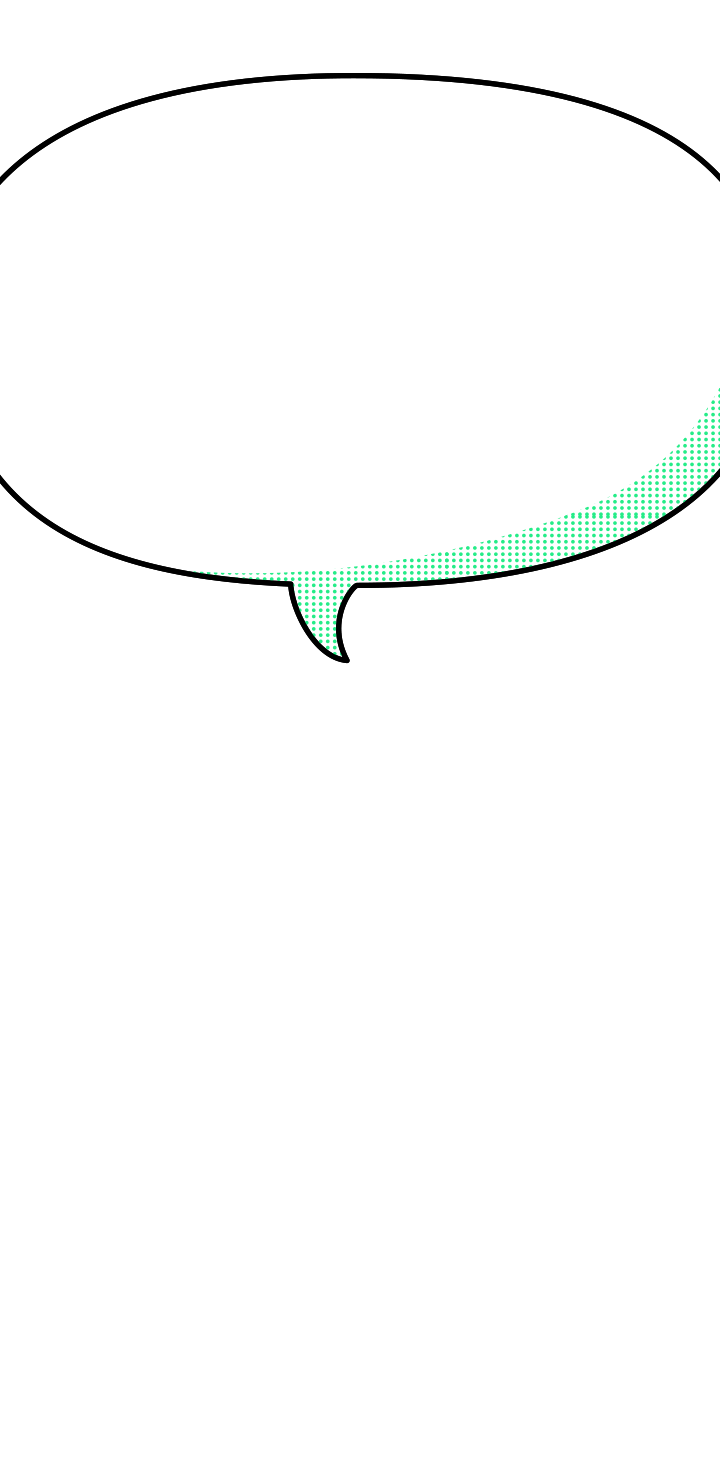
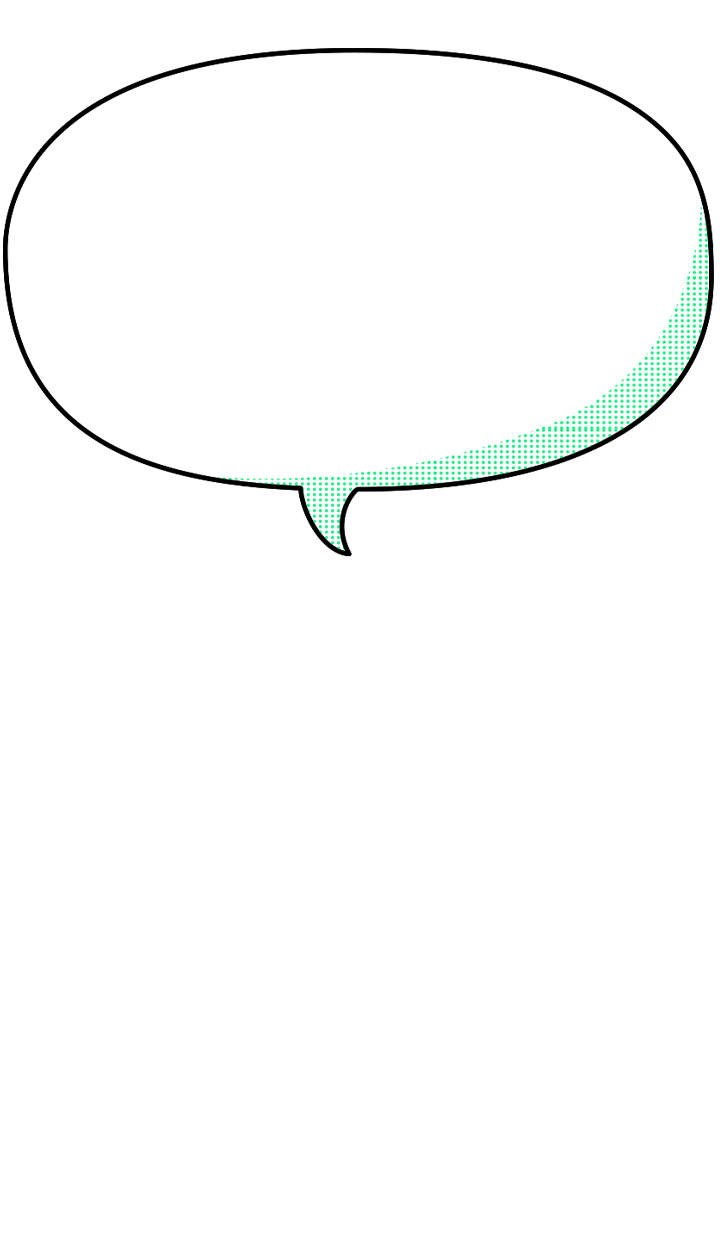
2021.12.24

Changed region(s): [[0.0, 0.031, 1.0, 0.4643], [0.0306, 0.2786, 0.0611, 0.3095], [0.0, 0.3095, 0.0306, 0.3405]]

diff --git a/assets/css/main.min.css b/assets/css/main.min.css
@@ -1,2 +1,2 @@
-.inner{max-width:1160px;margin:0 auto;padding:0 110px}.container{display:-webkit-box;display:-ms-flexbox;display:flex;-webkit-box-pack:justify;-ms-flex-pack:justify;justify-content:space-between;-webkit-box-align:center;-ms-flex-align:center;align-items:center;padding:0 125px}.mob-br{display:none}@media screen and (max-width: 1200px){.inner{padding:0 50px}}@media screen and (max-width: 900px){.container{padding:0 100px}}@media screen and (max-width: 720px){.inner{padding:0 40px}.container{-webkit-box-orient:vertical;-webkit-box-direction:normal;-ms-flex-direction:column;flex-direction:column;padding:0}}@media screen and (max-width: 570px){.inner{padding:0 25px}.mob-br{display:block}}@-webkit-keyframes loading{0%{width:0}70%{width:100%;opacity:1}90%{opacity:0;width:100%}100%{opacity:0;width:0}}@keyframes loading{0%{width:0}70%{width:100%;opacity:1}90%{opacity:0;width:100%}100%{opacity:0;width:0}}@-webkit-keyframes loading-motion{0%{height:57px}33%{height:58px}66%{height:60px}100%{height:58px}}@keyframes loading-motion{0%{height:57px}33%{height:58px}66%{height:60px}100%{height:58px}}@-webkit-keyframes loading-move{0%{left:0}70%{left:78%}100%{left:78%}}@keyframes loading-move{0%{left:0}70%{left:78%}100%{left:78%}}@-webkit-keyframes balloon{from{-webkit-transform:translateY(5px);transform:translateY(5px)}to{-webkit-transform:translateY(-5px);transform:translateY(-5px)}}@keyframes balloon{from{-webkit-transform:translateY(5px);transform:translateY(5px)}to{-webkit-transform:translateY(-5px);transform:translateY(-5px)}}@-webkit-keyframes scale-in-center{0%{-webkit-transform:scale(0);transform:scale(0);opacity:1}100%{-webkit-transform:scale(1);transform:scale(1);opacity:1}}@keyframes scale-in-center{0%{-webkit-transform:scale(0);transform:scale(0);opacity:1}100%{-webkit-transform:scale(1);transform:scale(1);opacity:1}}@-webkit-keyframes skill{from{width:0}to{width:graph}}@keyframes skill{from{width:0}to{width:graph}}@-webkit-keyframes quick-1{0%{right:-150px}100%{right:60px}}@keyframes quick-1{0%{right:-150px}100%{right:60px}}@-webkit-keyframes quick-mob-1{0%{bottom:-150px}100%{bottom:50px}}@keyframes quick-mob-1{0%{bottom:-150px}100%{bottom:50px}}@-webkit-keyframes quick-mob-2{0%{bottom:50px}100%{bottom:-150px}}@keyframes quick-mob-2{0%{bottom:50px}100%{bottom:-150px}}@-webkit-keyframes tracking-in-contract{0%{letter-spacing:normal}50%{letter-spacing:0.1em}100%{letter-spacing:normal}}@keyframes tracking-in-contract{0%{letter-spacing:normal}50%{letter-spacing:0.1em}100%{letter-spacing:normal}}@-webkit-keyframes scroll-down{from{bottom:35px}to{bottom:25px}}@keyframes scroll-down{from{bottom:35px}to{bottom:25px}}.loading-box{position:fixed;top:0;right:0;bottom:0;left:0;z-index:5000;background-color:#3f25b2}.loading-box .loading{position:relative;width:250px;height:30px;top:calc(50% - 10px);left:calc(50% - 125px);background-color:rgba(37,236,136,0.2)}.loading-box .loading::before{content:"";position:absolute;background-color:#25ec88;top:0;left:0;height:30px;width:0;z-index:0;opacity:1;-webkit-transform-origin:100% 0;transform-origin:100% 0;-webkit-animation:loading 5s ease-in-out infinite;animation:loading 5s ease-in-out infinite}.loading-box .loading::after{content:"LOADING ...";color:#25ec88;font-weight:200;font-size:24px;position:absolute;width:100%;height:30px;line-height:30px;top:0;left:0;text-align:center}.loading-box .loading .img-area{position:absolute;bottom:110%;left:0;-webkit-animation:loading-move 5s ease-in-out infinite;animation:loading-move 5s ease-in-out infinite}.loading-box .loading .img-area img{width:60px;height:57px;-webkit-animation:loading-motion 1s ease-in-out infinite;animation:loading-motion 1s ease-in-out infinite}.hd{background-color:#1b1b1b;position:fixed;top:0;right:0;left:0;z-index:1000}.hd .hamburger{display:none}.hd .logo{line-height:80px}.hd .logo img{width:100%;display:block}.hd .gnb{display:-webkit-box;display:-ms-flexbox;display:flex}.hd .gnb a{display:inline-block;color:#fff;font-size:18px;font-weight:400}.hd .gnb .dep1{line-height:80px;margin-left:57px}.hd .gnb .dep1:hover>a{text-decoration:underline}.hd .gnb .dep1:hover .dep2{height:150px;padding:8px 0}.hd .gnb .dep1-arrow{position:relative}.hd .gnb .dep1-arrow>a::after{content:'▼';color:#fff;font-size:12px;margin-left:9px}.hd .gnb .dep1 .dep2{height:0px;overflow:hidden;position:absolute;background-color:#3b21b0;top:100%;left:50%;-webkit-transform:translateX(-50%);transform:translateX(-50%);width:208px;text-align:center;line-height:45px;-webkit-transition:all 0.3s;transition:all 0.3s}.hd .gnb .dep1 .dep2 a{display:block;font-size:13px;-webkit-transition:all 0.3s ease;transition:all 0.3s ease}.hd .gnb .dep1 .dep2 a:hover{background-color:#fff;color:#3b21b0}@media screen and (max-width: 900px){.hd .logo{margin:0 auto}.hd .logo a img{width:100%;padding:21px 0;line-height:80px}.hd .gnb{background-color:rgba(59,33,176,0.9);position:fixed;top:-100%;right:0;left:0;display:block;text-align:center;padding-top:100px;-webkit-transition:all 0.9s;transition:all 0.9s;opacity:0}.hd .gnb a{font-size:36px;font-weight:500}.hd .gnb .dep1{line-height:100px;margin-left:0}.hd .gnb .dep1:hover .dep2{height:0;padding:0}.hd .gnb .dep1 .dep2{position:relative;background-color:transparent;width:auto;line-height:100px}.hd .gnb .dep1 .dep2 a{font-size:30px}.hd .gnb .dep1 .dep2 a:hover{background:transparent;color:#fff;text-decoration:underline}.hd .gnb .dep1 .dep2.active{height:316px}.hd .hamburger{display:block;position:absolute;top:50%;right:3%;z-index:3;-webkit-transform:translateY(-50%);transform:translateY(-50%);width:45px;height:45px;cursor:pointer}.hd .hamburger li{position:absolute;left:5%;-webkit-transform:translateY(-50%);transform:translateY(-50%);width:90%;height:7px;background:#fff;border-radius:20px;-webkit-transition:.9s;transition:.9s;opacity:1}.hd .hamburger .line1{top:20%}.hd .hamburger .line2,.hd .hamburger .line3{top:50%}.hd .hamburger .line4{top:80%}.hd .hamburger.active .line1{top:-20%;opacity:0}.hd .hamburger.active .line2{-webkit-transform:translateY(-50%) rotate(45deg);transform:translateY(-50%) rotate(45deg)}.hd .hamburger.active .line3{-webkit-transform:translateY(-50%) rotate(-45deg);transform:translateY(-50%) rotate(-45deg)}.hd .hamburger.active .line4{top:120%;opacity:0}.hd .hamburger.active ~ .gnb{top:0;bottom:0;opacity:1}}.kv{margin-top:80px}.kv .kv-bg{position:relative;padding-top:45.5%;background-image:url(../images/kv-main.gif);background-repeat:no-repeat;background-position:center top;background-size:contain}.kv .kv-bg img{display:block;width:100%}.kv .kv-bg .kv-obj{position:absolute;left:45%;top:35px;width:43%;height:100%;background-image:url(../images/kv-obj.png);background-repeat:no-repeat;background-size:contain;padding:6% 8%;-webkit-animation:balloon 1s ease-out infinite alternate;animation:balloon 1s ease-out infinite alternate}.kv .kv-bg .kv-obj .kv-txt{-webkit-animation:scale-in-center 1s cubic-bezier(0.25, 0.46, 0.45, 0.94) both;animation:scale-in-center 1s cubic-bezier(0.25, 0.46, 0.45, 0.94) both}.about{padding:118px 0}.about .about-slider [class^='list-']{display:-webkit-box;display:-ms-flexbox;display:flex;-webkit-box-pack:justify;-ms-flex-pack:justify;justify-content:space-between;-webkit-box-align:center;-ms-flex-align:center;align-items:center}.about .about-slider .slick-dots{position:absolute;bottom:-40px;left:50%;-webkit-transform:translate(-50%);transform:translate(-50%);display:-webkit-box;display:-ms-flexbox;display:flex;margin:0}.about .about-slider .slick-dots button{background-color:black;width:10px;height:10px;border-radius:10px;text-indent:-9999px;margin:0 4px;padding:0}.about .about-slider .slick-dots li.slick-active button{width:38px;margin:0 9px;-webkit-transition:all 0.3s;transition:all 0.3s}.about [class^='list-'] .txt-area .tit{font-family:'ChunkFive-Regular';font-size:52px}.about [class^='list-'] .img-area{-webkit-box-flex:0;-ms-flex:0 0 auto;flex:0 0 auto}.about [class^='list-'] .img-area img{display:block;width:100%;border:5px solid black}.about .list-1 .txt-area{text-align:right;margin-left:30px}.about .list-1 .txt-area .tit{color:#25ec88}.about .list-1 .txt-area .desc{font-size:18px;font-weight:300;line-height:32px;margin-top:25px}.about .list-2 .txt-area .tit{color:#3b21b0}.about .list-2 .txt-area .desc{display:-webkit-box;display:-ms-flexbox;display:flex;-ms-flex-wrap:wrap;flex-wrap:wrap;margin-top:25px}.about .list-2 .txt-area .desc li{-webkit-box-flex:1;-ms-flex:1 1 auto;flex:1 1 auto}.about .list-2 .txt-area .date{font-weight:400;font-size:18px}.about .list-2 .txt-area .work{font-family:'KOTRA_GOTHIC';font-size:18px;margin-top:10px}.about .list-2 .img-area{margin-right:80px}.about .list-3 .txt-area .tit{color:#e412e2}.about .list-3 .txt-area .desc{display:-webkit-box;display:-ms-flexbox;display:flex;-ms-flex-wrap:wrap;flex-wrap:wrap;margin-top:25px}.about .list-3 .txt-area .desc li{width:calc(50% - 20px);margin-right:20px;margin-bottom:28px}.about .list-3 .txt-area .desc .skill{font-weight:400;font-size:18px;margin-bottom:10px}.about .list-3 .txt-area .desc .graph{position:relative;width:100%;height:8px;border-radius:10px;background-color:#f0f0f0}.about .list-3 .txt-area .desc .graph::after{content:"";height:8px;position:absolute;top:0;left:0;border-radius:10px;background-color:#d4d4d4}.about .list-3 .txt-area .desc .photo .graph::after{width:95%}.about .list-3 .txt-area .desc .prem .graph::after{width:50%}.about .list-3 .txt-area .desc .clip .graph::after{width:95%}.about .list-3 .txt-area .desc .blen .graph::after{width:40%}.about .list-3 .txt-area .desc .html .graph::after{width:80%}.about .list-3 .txt-area .desc .css .graph::after{width:80%}.about .list-3 .txt-area .desc .jqeury .graph::after{width:50%}.about .list-3.slick-active .txt-area .desc .graph::after{-webkit-animation:skill 1s;animation:skill 1s}.sec-tit{text-align:center;padding-top:68px}.what-i-do{background-color:#3b21b0;padding:0 105px}.what-i-do .sec-body{display:-webkit-box;display:-ms-flexbox;display:flex;-ms-flex-wrap:wrap;flex-wrap:wrap;-webkit-box-pack:justify;-ms-flex-pack:justify;justify-content:space-between;-webkit-box-align:end;-ms-flex-align:end;align-items:flex-end;padding-top:100px;padding-bottom:150px}.what-i-do .sec-body .list-item{text-align:center;width:25%}.what-i-do .sec-body .list-item .icon{margin-bottom:10px}.what-i-do .sec-body .list-item .bar{position:relative;background-color:#25ec88;width:74px;height:14px;border-radius:14px;border:3px solid black;margin:auto;-webkit-transform:translateX(-7px);transform:translateX(-7px)}.what-i-do .sec-body .list-item .bar::after{position:absolute;top:0;bottom:0;right:-15px;content:"";background-color:#25ec88;-webkit-box-sizing:border-box;box-sizing:border-box;width:14px;height:14px;border-radius:14px;border:3px solid black;margin:auto}.what-i-do .sec-body .list-item .txt{font-size:24px;font-weight:500;color:#25ec88;text-shadow:-3px 0 #000, 0 3px #000, 3px 0 #000, 0 -3px #000;margin-top:20px}.portfolio{background-color:#25ec88}.portfolio .sec-body{padding:80px 0}.portfolio .sec-body .list-item{background-color:#1b1b1b;margin-bottom:50px}.portfolio .sec-body .list-item a{display:-webkit-box;display:-ms-flexbox;display:flex;-webkit-box-pack:justify;-ms-flex-pack:justify;justify-content:space-between;-webkit-box-align:end;-ms-flex-align:end;align-items:flex-end;padding:22px}.portfolio .sec-body .list-item a .txt-area{color:#fff;margin-left:10px;margin-bottom:10px}.portfolio .sec-body .list-item a .txt-area .tit{display:inline-block;position:relative;font-family:'ChunkFive-Regular';font-size:36px;margin-bottom:15px}.portfolio .sec-body .list-item a .txt-area .tit::after{content:"";display:inline-block;background-image:url(../images/arrow.png);background-repeat:no-repeat;background-size:cover;width:40px;height:100%;padding-top:29px;margin-bottom:-3px;margin-left:10px}.portfolio .sec-body .list-item a .txt-area .desc{font-size:18px;font-weight:400}.portfolio .sec-body .list-item a .img-area{-webkit-box-flex:0;-ms-flex:0 0 auto;flex:0 0 auto;width:451px;height:304px;background-repeat:no-repeat}.portfolio .sec-body .list-item a .img-area.img-web{background-image:url(../images/portfolio-web.png)}.portfolio .sec-body .list-item a .img-area.img-character{background-image:url(../images/portfolio-character.png)}.portfolio .sec-body .list-item a .img-area.img-graphic{background-image:url(../images/portfolio-graphic.png)}.portfolio .sec-body .list-item:hover .txt-area .tit{-webkit-animation:tracking-in-contract 1s cubic-bezier(0.215, 0.61, 0.355, 1) both;animation:tracking-in-contract 1s cubic-bezier(0.215, 0.61, 0.355, 1) both}.portfolio .sec-body .list-item:hover .img-area.img-web{background-image:url(../images/portfolio-web-hover.gif)}.portfolio .sec-body .list-item:hover .img-area.img-character{background-image:url(../images/portfolio-character-hover.gif)}.portfolio .sec-body .list-item:hover .img-area.img-graphic{background-image:url(../images/portfolio-graphic-hover.gif)}.contact{position:relative;background-color:#3f25b2;background-image:url(../images/bg-contact.png);background-repeat:no-repeat;background-position:right;color:#fff;text-align:center}.contact .sec-body{padding-top:140px;padding-bottom:80px}.contact .sec-body .desc{position:relative;font-size:18px;font-weight:300}.contact .sec-body .desc::before{position:absolute;content:"";background-image:url(../images/ico-desc-top.png);background-repeat:no-repeat;width:44px;height:34px;top:-60px;left:50%;-webkit-transform:translateX(-50%);transform:translateX(-50%)}.contact .sec-body .desc::after{position:absolute;content:"";background-image:url(../images/ico-desc-bottom.png);background-repeat:no-repeat;width:44px;height:34px;bottom:-60px;left:50%;-webkit-transform:translateX(-50%);transform:translateX(-50%)}.contact .sec-body .name{font-size:18px;font-weight:400;margin-top:120px}.contact .sec-body .contact-info{display:-webkit-box;display:-ms-flexbox;display:flex;-webkit-box-pack:center;-ms-flex-pack:center;justify-content:center;margin-top:50px}.contact .sec-body .contact-info .call,.contact .sec-body .contact-info .email{font-size:18px;font-weight:300;margin:0 24px}.contact .sec-body .btn{margin-top:50px}.contact .sec-body .btn button{background-color:#25ec88;color:#3b21b0;font-size:18px;font-weight:500;width:180px;height:51px;margin:0 24px}@media screen and (max-width: 1200px){.what-i-do{padding:0}}@media screen and (max-width: 900px){.about .about-slider .list-1{-webkit-box-orient:vertical;-webkit-box-direction:reverse;-ms-flex-direction:column-reverse;flex-direction:column-reverse}.about .about-slider .list-1 .txt-area{text-align:center;margin-top:30px;margin-left:0}.about .about-slider .list-2{-webkit-box-orient:vertical;-webkit-box-direction:normal;-ms-flex-direction:column;flex-direction:column}.about .about-slider .list-2 .txt-area{text-align:center;margin-top:30px}.about .about-slider .list-2 .txt-area .desc{text-align:left;margin:30px 20px 0}.about .about-slider .list-2 .txt-area .desc li{-webkit-box-flex:1;-ms-flex:1 1 auto;flex:1 1 auto}.about .about-slider .list-2 .img-area{margin-right:0}.about .about-slider .list-3{-webkit-box-orient:vertical;-webkit-box-direction:reverse;-ms-flex-direction:column-reverse;flex-direction:column-reverse}.about .about-slider .list-3 .txt-area{text-align:center;margin-top:30px}.about .about-slider .list-3 .txt-area .desc{margin-right:30px;margin-left:50px}.about .about-slider .list-3 .txt-area .desc li{width:calc(50% - 20px);margin-bottom:20px;text-align:left}.what-i-do .sec-body .list-item{width:50%}.what-i-do .sec-body .list-item:first-child,.what-i-do .sec-body .list-item:nth-child(2){margin-bottom:100px}.portfolio .sec-body .list-item a{-ms-flex-wrap:wrap;flex-wrap:wrap;-webkit-box-orient:vertical;-webkit-box-direction:reverse;-ms-flex-direction:column-reverse;flex-direction:column-reverse;-webkit-box-align:start;-ms-flex-align:start;align-items:flex-start}.portfolio .sec-body .list-item a .txt-area{-ms-flex-preferred-size:100%;flex-basis:100%;margin-top:20px;margin-left:0}.portfolio .sec-body .list-item a .img-area{-webkit-box-flex:1;-ms-flex:1 1 100%;flex:1 1 100%;width:100%;padding-top:67.4%;background-size:cover}}@media screen and (max-width: 720px){.kv .kv-bg{background-image:url(../images/kv-mob.gif);background-size:cover;padding-top:202.7%}.kv .kv-bg .kv-obj{top:0;left:0;width:100%;background-image:url(../images/kv-mob-obj.png);padding:27% 13%}.portfolio .sec-body .list-item:active .txt-area .tit{-webkit-animation:tracking-in-contract 1s cubic-bezier(0.215, 0.61, 0.355, 1) both;animation:tracking-in-contract 1s cubic-bezier(0.215, 0.61, 0.355, 1) both}.portfolio .sec-body .list-item:active .img-area.img-web{background-image:url(../images/portfolio-web-hover.gif)}.portfolio .sec-body .list-item:active .img-area.img-character{background-image:url(../images/portfolio-character-hover.gif)}.portfolio .sec-body .list-item:active .img-area.img-graphic{background-image:url(../images/portfolio-graphic-hover.gif)}.contact .sec-body .contact-info .call,.contact .sec-body .contact-info .email{margin:0 12px}.contact .sec-body .btn button{margin:0 12px}}@media screen and (max-width: 570px){.about .about-slider .list-3 .txt-area .desc{margin-right:0;margin-left:20px}.about .about-slider .list-3 .txt-area .desc li{width:calc(50% - 20px)}.about .about-slider .list-2 .txt-area .desc{text-align:center;margin-top:0px}.about .about-slider .list-2 .txt-area .desc li{margin-top:20px}.what-i-do .sec-body{padding-bottom:50px}.what-i-do .sec-body .list-item{width:100%;margin-bottom:100px}.contact .sec-body{padding-top:120px}.contact .sec-body .name{margin-top:100px}.contact .sec-body .contact-info{-webkit-box-orient:vertical;-webkit-box-direction:normal;-ms-flex-direction:column;flex-direction:column;margin-top:25px}.contact .sec-body .contact-info .call,.contact .sec-body .contact-info .email{margin:12px 0}.contact .sec-body .btn{display:inline-block;margin:auto}.contact .sec-body .btn button{display:block;margin:24px 0}}.ft{background-color:#1b1b1b;font-size:14px;color:#fff;line-height:80px}@media screen and (max-width: 720px){.ft{line-height:40px;padding:12px 0}}.quick [class^='quick-']{background-repeat:no-repeat;background-position:center;background-size:cover;position:fixed;width:55px;height:52px}.quick [class^='quick-'] .img-box{display:none;position:relative}.quick [class^='quick-'] .img-box img{position:absolute;top:-35px;left:50%;-webkit-transform:translateX(-50%);transform:translateX(-50%)}.quick [class^='quick-']:hover .img-box{display:block}.quick .quick-green{background-image:url(../images/quick-green.png);bottom:300px;-webkit-animation:quick-1 0.8s cubic-bezier(0, -0.04, 0.41, 0.95) both;animation:quick-1 0.8s cubic-bezier(0, -0.04, 0.41, 0.95) both}.quick .quick-green .img-box img{width:59px}.quick .quick-green:hover{background-image:url(../images/quick-green-hover.png)}.quick .quick-yellow{background-image:url(../images/quick-yellow.png);bottom:200px;-webkit-animation:quick-1 0.8s cubic-bezier(0, -0.04, 0.41, 0.95) 0.2s both;animation:quick-1 0.8s cubic-bezier(0, -0.04, 0.41, 0.95) 0.2s both}.quick .quick-yellow .img-box img{width:121px}.quick .quick-yellow:hover{background-image:url(../images/quick-yellow-hover.png)}.quick .quick-pink{background-image:url(../images/quick-pink.png);bottom:100px;-webkit-animation:quick-1 0.8s cubic-bezier(0, -0.04, 0.41, 0.95) 0.4s both;animation:quick-1 0.8s cubic-bezier(0, -0.04, 0.41, 0.95) 0.4s both}.quick .quick-pink .img-box img{width:100px}.quick .quick-pink:hover{background-image:url(../images/quick-pink-hover.png)}@media screen and (max-width: 720px){.quick [class^='quick-']{bottom:50px;left:50%;-webkit-transform:translateX(-50%);transform:translateX(-50%)}.quick .quick-green{-webkit-transform:translateX(-250%);transform:translateX(-250%);-webkit-animation:quick-mob-1 0.6s cubic-bezier(0, -0.04, 0.41, 0.95) both;animation:quick-mob-1 0.6s cubic-bezier(0, -0.04, 0.41, 0.95) both;left:47%}.quick .quick-yellow{-webkit-animation:quick-mob-1 0.6s cubic-bezier(0, -0.04, 0.41, 0.95) 0.2s both;animation:quick-mob-1 0.6s cubic-bezier(0, -0.04, 0.41, 0.95) 0.2s both}.quick .quick-pink{-webkit-transform:translateX(150%);transform:translateX(150%);-webkit-animation:quick-mob-1 0.6s cubic-bezier(0, -0.04, 0.41, 0.95) 0.4s both;animation:quick-mob-1 0.6s cubic-bezier(0, -0.04, 0.41, 0.95) 0.4s both;left:53%}.quick.hide .quick-green{-webkit-animation:quick-mob-2 0.6s ease-in-out 0.4s both;animation:quick-mob-2 0.6s ease-in-out 0.4s both}.quick.hide .quick-yellow{-webkit-animation:quick-mob-2 0.6s ease-in-out 0.2s both;animation:quick-mob-2 0.6s ease-in-out 0.2s both}.quick.hide .quick-pink{-webkit-animation:quick-mob-2 0.6s ease-in-out both;animation:quick-mob-2 0.6s ease-in-out both}}
+.inner{max-width:1160px;margin:0 auto;padding:0 110px}.container{display:-webkit-box;display:-ms-flexbox;display:flex;-webkit-box-pack:justify;-ms-flex-pack:justify;justify-content:space-between;-webkit-box-align:center;-ms-flex-align:center;align-items:center;padding:0 125px}.mob-br{display:none}@media screen and (max-width: 1200px){.inner{padding:0 50px}}@media screen and (max-width: 900px){.container{padding:0 100px}}@media screen and (max-width: 720px){.inner{padding:0 40px}.container{-webkit-box-orient:vertical;-webkit-box-direction:normal;-ms-flex-direction:column;flex-direction:column;padding:0}}@media screen and (max-width: 570px){.inner{padding:0 25px}.mob-br{display:block}}@-webkit-keyframes loading{0%{width:0}70%{width:100%;opacity:1}90%{opacity:0;width:100%}100%{opacity:0;width:0}}@keyframes loading{0%{width:0}70%{width:100%;opacity:1}90%{opacity:0;width:100%}100%{opacity:0;width:0}}@-webkit-keyframes loading-motion{0%{height:57px}33%{height:58px}66%{height:60px}100%{height:58px}}@keyframes loading-motion{0%{height:57px}33%{height:58px}66%{height:60px}100%{height:58px}}@-webkit-keyframes loading-move{0%{left:0}70%{left:78%}100%{left:78%}}@keyframes loading-move{0%{left:0}70%{left:78%}100%{left:78%}}@-webkit-keyframes balloon{from{-webkit-transform:translateY(5px);transform:translateY(5px)}to{-webkit-transform:translateY(-5px);transform:translateY(-5px)}}@keyframes balloon{from{-webkit-transform:translateY(5px);transform:translateY(5px)}to{-webkit-transform:translateY(-5px);transform:translateY(-5px)}}@-webkit-keyframes scale-in-center{0%{-webkit-transform:scale(0);transform:scale(0);opacity:1}100%{-webkit-transform:scale(1);transform:scale(1);opacity:1}}@keyframes scale-in-center{0%{-webkit-transform:scale(0);transform:scale(0);opacity:1}100%{-webkit-transform:scale(1);transform:scale(1);opacity:1}}@-webkit-keyframes skill{from{width:0}to{width:graph}}@keyframes skill{from{width:0}to{width:graph}}@-webkit-keyframes quick-1{0%{right:-150px}100%{right:60px}}@keyframes quick-1{0%{right:-150px}100%{right:60px}}@-webkit-keyframes quick-mob-1{0%{bottom:-150px}100%{bottom:50px}}@keyframes quick-mob-1{0%{bottom:-150px}100%{bottom:50px}}@-webkit-keyframes quick-mob-2{0%{bottom:50px}100%{bottom:-150px}}@keyframes quick-mob-2{0%{bottom:50px}100%{bottom:-150px}}@-webkit-keyframes tracking-in-contract{0%{letter-spacing:normal}50%{letter-spacing:0.1em}100%{letter-spacing:normal}}@keyframes tracking-in-contract{0%{letter-spacing:normal}50%{letter-spacing:0.1em}100%{letter-spacing:normal}}@-webkit-keyframes scroll-down{from{bottom:35px}to{bottom:25px}}@keyframes scroll-down{from{bottom:35px}to{bottom:25px}}.loading-box{position:fixed;top:0;right:0;bottom:0;left:0;z-index:5000;background-color:#3f25b2}.loading-box .loading{position:relative;width:250px;height:30px;top:calc(50% - 10px);left:calc(50% - 125px);background-color:rgba(37,236,136,0.2)}.loading-box .loading::before{content:"";position:absolute;background-color:#25ec88;top:0;left:0;height:30px;width:0;z-index:0;opacity:1;-webkit-transform-origin:100% 0;transform-origin:100% 0;-webkit-animation:loading 5s ease-in-out infinite;animation:loading 5s ease-in-out infinite}.loading-box .loading::after{content:"LOADING ...";color:#25ec88;font-weight:200;font-size:24px;position:absolute;width:100%;height:30px;line-height:30px;top:0;left:0;text-align:center}.loading-box .loading .img-area{position:absolute;bottom:110%;left:0;-webkit-animation:loading-move 5s ease-in-out infinite;animation:loading-move 5s ease-in-out infinite}.loading-box .loading .img-area img{width:60px;height:57px;-webkit-animation:loading-motion 1s ease-in-out infinite;animation:loading-motion 1s ease-in-out infinite}.hd{background-color:#1b1b1b;position:fixed;top:0;right:0;left:0;z-index:1000}.hd .hamburger{display:none}.hd .logo{line-height:80px}.hd .logo img{width:100%;display:block}.hd .gnb{display:-webkit-box;display:-ms-flexbox;display:flex}.hd .gnb a{display:inline-block;color:#fff;font-size:18px;font-weight:400}.hd .gnb .dep1{line-height:80px;margin-left:57px}.hd .gnb .dep1:hover>a{text-decoration:underline}.hd .gnb .dep1:hover .dep2{height:150px;padding:8px 0}.hd .gnb .dep1-arrow{position:relative}.hd .gnb .dep1-arrow>a::after{content:'▼';color:#fff;font-size:12px;margin-left:9px}.hd .gnb .dep1 .dep2{height:0px;overflow:hidden;position:absolute;background-color:#3b21b0;top:100%;left:50%;-webkit-transform:translateX(-50%);transform:translateX(-50%);width:208px;text-align:center;line-height:45px;-webkit-transition:all 0.3s;transition:all 0.3s}.hd .gnb .dep1 .dep2 a{display:block;font-size:13px;-webkit-transition:all 0.3s ease;transition:all 0.3s ease}.hd .gnb .dep1 .dep2 a:hover{background-color:#fff;color:#3b21b0}@media screen and (max-width: 900px){.hd .logo{margin:0 auto}.hd .logo a img{width:100%;padding:21px 0;line-height:80px}.hd .gnb{background-color:rgba(59,33,176,0.9);position:fixed;top:-100%;right:0;left:0;display:block;text-align:center;padding-top:100px;-webkit-transition:all 0.9s;transition:all 0.9s;opacity:0}.hd .gnb a{font-size:36px;font-weight:500}.hd .gnb .dep1{line-height:100px;margin-left:0}.hd .gnb .dep1:hover .dep2{height:0;padding:0}.hd .gnb .dep1 .dep2{position:relative;background-color:transparent;width:auto;line-height:100px}.hd .gnb .dep1 .dep2 a{font-size:30px}.hd .gnb .dep1 .dep2 a:hover{background:transparent;color:#fff;text-decoration:underline}.hd .gnb .dep1 .dep2.active{height:316px}.hd .hamburger{display:block;position:absolute;top:50%;right:3%;z-index:3;-webkit-transform:translateY(-50%);transform:translateY(-50%);width:45px;height:45px;cursor:pointer}.hd .hamburger li{position:absolute;left:5%;-webkit-transform:translateY(-50%);transform:translateY(-50%);width:90%;height:7px;background:#fff;border-radius:20px;-webkit-transition:.9s;transition:.9s;opacity:1}.hd .hamburger .line1{top:20%}.hd .hamburger .line2,.hd .hamburger .line3{top:50%}.hd .hamburger .line4{top:80%}.hd .hamburger.active .line1{top:-20%;opacity:0}.hd .hamburger.active .line2{-webkit-transform:translateY(-50%) rotate(45deg);transform:translateY(-50%) rotate(45deg)}.hd .hamburger.active .line3{-webkit-transform:translateY(-50%) rotate(-45deg);transform:translateY(-50%) rotate(-45deg)}.hd .hamburger.active .line4{top:120%;opacity:0}.hd .hamburger.active ~ .gnb{top:0;bottom:0;opacity:1}}.kv{margin-top:80px}.kv .kv-bg{position:relative;padding-top:45.5%;background-image:url(../images/kv-main.gif);background-repeat:no-repeat;background-position:center top;background-size:contain}.kv .kv-bg img{display:block;width:100%}.kv .kv-bg .kv-obj{position:absolute;left:45%;top:35px;width:43%;height:100%;background-image:url(../images/kv-obj.png);background-repeat:no-repeat;background-size:contain;padding:6% 8%;-webkit-animation:balloon 1s ease-out infinite alternate;animation:balloon 1s ease-out infinite alternate}.kv .kv-bg .kv-obj .kv-txt{-webkit-animation:scale-in-center 1s cubic-bezier(0.25, 0.46, 0.45, 0.94) both;animation:scale-in-center 1s cubic-bezier(0.25, 0.46, 0.45, 0.94) both}.about{padding:118px 0}.about .about-slider [class^='list-']{display:-webkit-box;display:-ms-flexbox;display:flex;-webkit-box-pack:justify;-ms-flex-pack:justify;justify-content:space-between;-webkit-box-align:center;-ms-flex-align:center;align-items:center}.about .about-slider .slick-dots{position:absolute;bottom:-40px;left:50%;-webkit-transform:translate(-50%);transform:translate(-50%);display:-webkit-box;display:-ms-flexbox;display:flex;margin:0}.about .about-slider .slick-dots button{background-color:black;width:10px;height:10px;border-radius:10px;text-indent:-9999px;margin:0 4px;padding:0}.about .about-slider .slick-dots li.slick-active button{width:38px;margin:0 9px;-webkit-transition:all 0.3s;transition:all 0.3s}.about [class^='list-'] .txt-area .tit{font-family:'ChunkFive-Regular';font-size:52px}.about [class^='list-'] .img-area{-webkit-box-flex:0;-ms-flex:0 0 auto;flex:0 0 auto}.about [class^='list-'] .img-area img{display:block;width:100%;border:5px solid black}.about .list-1 .txt-area{text-align:right;margin-left:30px}.about .list-1 .txt-area .tit{color:#25ec88}.about .list-1 .txt-area .desc{font-size:18px;font-weight:300;line-height:32px;margin-top:25px}.about .list-2 .txt-area .tit{color:#3b21b0}.about .list-2 .txt-area .desc{display:-webkit-box;display:-ms-flexbox;display:flex;-ms-flex-wrap:wrap;flex-wrap:wrap;margin-top:25px}.about .list-2 .txt-area .desc li{-webkit-box-flex:1;-ms-flex:1 1 auto;flex:1 1 auto}.about .list-2 .txt-area .date{font-weight:400;font-size:18px}.about .list-2 .txt-area .work{font-family:'KOTRA_GOTHIC';font-size:18px;margin-top:10px}.about .list-2 .img-area{margin-right:80px}.about .list-3 .txt-area .tit{color:#e412e2}.about .list-3 .txt-area .desc{display:-webkit-box;display:-ms-flexbox;display:flex;-ms-flex-wrap:wrap;flex-wrap:wrap;margin-top:25px}.about .list-3 .txt-area .desc li{width:calc(50% - 20px);margin-right:20px;margin-bottom:28px}.about .list-3 .txt-area .desc .skill{font-weight:400;font-size:18px;margin-bottom:10px}.about .list-3 .txt-area .desc .graph{position:relative;width:100%;height:8px;border-radius:10px;background-color:#f0f0f0}.about .list-3 .txt-area .desc .graph::after{content:"";height:8px;position:absolute;top:0;left:0;border-radius:10px;background-color:#d4d4d4}.about .list-3 .txt-area .desc .photo .graph::after{width:95%}.about .list-3 .txt-area .desc .prem .graph::after{width:50%}.about .list-3 .txt-area .desc .clip .graph::after{width:95%}.about .list-3 .txt-area .desc .blen .graph::after{width:40%}.about .list-3 .txt-area .desc .html .graph::after{width:80%}.about .list-3 .txt-area .desc .css .graph::after{width:80%}.about .list-3 .txt-area .desc .jqeury .graph::after{width:50%}.about .list-3.slick-active .txt-area .desc .graph::after{-webkit-animation:skill 1s;animation:skill 1s}.sec-tit{text-align:center;padding-top:68px}.what-i-do{background-color:#3b21b0;padding:0 105px}.what-i-do .sec-body{display:-webkit-box;display:-ms-flexbox;display:flex;-ms-flex-wrap:wrap;flex-wrap:wrap;-webkit-box-pack:justify;-ms-flex-pack:justify;justify-content:space-between;-webkit-box-align:end;-ms-flex-align:end;align-items:flex-end;padding-top:100px;padding-bottom:150px}.what-i-do .sec-body .list-item{text-align:center;width:25%}.what-i-do .sec-body .list-item .icon{margin-bottom:10px}.what-i-do .sec-body .list-item .bar{position:relative;background-color:#25ec88;width:74px;height:14px;border-radius:14px;border:3px solid black;margin:auto;-webkit-transform:translateX(-7px);transform:translateX(-7px)}.what-i-do .sec-body .list-item .bar::after{position:absolute;top:0;bottom:0;right:-15px;content:"";background-color:#25ec88;-webkit-box-sizing:border-box;box-sizing:border-box;width:14px;height:14px;border-radius:14px;border:3px solid black;margin:auto}.what-i-do .sec-body .list-item .txt{font-size:24px;font-weight:500;color:#25ec88;text-shadow:-3px 0 #000, 0 3px #000, 3px 0 #000, 0 -3px #000;margin-top:20px}.portfolio{background-color:#25ec88}.portfolio .sec-body{padding:80px 0}.portfolio .sec-body .list-item{background-color:#1b1b1b;margin-bottom:50px}.portfolio .sec-body .list-item a{display:-webkit-box;display:-ms-flexbox;display:flex;-webkit-box-pack:justify;-ms-flex-pack:justify;justify-content:space-between;-webkit-box-align:end;-ms-flex-align:end;align-items:flex-end;padding:22px}.portfolio .sec-body .list-item a .txt-area{color:#fff;margin-left:10px;margin-bottom:10px}.portfolio .sec-body .list-item a .txt-area .tit{display:inline-block;position:relative;font-family:'ChunkFive-Regular';font-size:36px;margin-bottom:15px}.portfolio .sec-body .list-item a .txt-area .tit::after{content:"";display:inline-block;background-image:url(../images/arrow.png);background-repeat:no-repeat;background-size:cover;width:40px;height:100%;padding-top:29px;margin-bottom:-3px;margin-left:10px}.portfolio .sec-body .list-item a .txt-area .desc{font-size:18px;font-weight:400}.portfolio .sec-body .list-item a .img-area{-webkit-box-flex:0;-ms-flex:0 0 auto;flex:0 0 auto;width:451px;height:304px;background-repeat:no-repeat}.portfolio .sec-body .list-item a .img-area.img-web{background-image:url(../images/portfolio-web.png)}.portfolio .sec-body .list-item a .img-area.img-character{background-image:url(../images/portfolio-character.png)}.portfolio .sec-body .list-item a .img-area.img-graphic{background-image:url(../images/portfolio-graphic.png)}.portfolio .sec-body .list-item:hover .txt-area .tit{-webkit-animation:tracking-in-contract 1s cubic-bezier(0.215, 0.61, 0.355, 1) both;animation:tracking-in-contract 1s cubic-bezier(0.215, 0.61, 0.355, 1) both}.portfolio .sec-body .list-item:hover .img-area.img-web{background-image:url(../images/portfolio-web-hover.gif)}.portfolio .sec-body .list-item:hover .img-area.img-character{background-image:url(../images/portfolio-character-hover.gif)}.portfolio .sec-body .list-item:hover .img-area.img-graphic{background-image:url(../images/portfolio-graphic-hover.gif)}.contact{position:relative;background-color:#3f25b2;background-image:url(../images/bg-contact.png);background-repeat:no-repeat;background-position:right;color:#fff;text-align:center}.contact .sec-body{padding-top:140px;padding-bottom:80px}.contact .sec-body .desc{position:relative;font-size:18px;font-weight:300}.contact .sec-body .desc::before{position:absolute;content:"";background-image:url(../images/ico-desc-top.png);background-repeat:no-repeat;width:44px;height:34px;top:-60px;left:50%;-webkit-transform:translateX(-50%);transform:translateX(-50%)}.contact .sec-body .desc::after{position:absolute;content:"";background-image:url(../images/ico-desc-bottom.png);background-repeat:no-repeat;width:44px;height:34px;bottom:-60px;left:50%;-webkit-transform:translateX(-50%);transform:translateX(-50%)}.contact .sec-body .name{font-size:18px;font-weight:400;margin-top:120px}.contact .sec-body .contact-info{display:-webkit-box;display:-ms-flexbox;display:flex;-webkit-box-pack:center;-ms-flex-pack:center;justify-content:center;margin-top:50px}.contact .sec-body .contact-info .call,.contact .sec-body .contact-info .email{font-size:18px;font-weight:300;margin:0 24px}.contact .sec-body .btn{margin-top:50px}.contact .sec-body .btn button{background-color:#25ec88;color:#3b21b0;font-size:18px;font-weight:500;width:180px;height:51px;margin:0 24px}@media screen and (max-width: 1200px){.what-i-do{padding:0}}@media screen and (max-width: 900px){.about .about-slider .list-1{-webkit-box-orient:vertical;-webkit-box-direction:reverse;-ms-flex-direction:column-reverse;flex-direction:column-reverse}.about .about-slider .list-1 .txt-area{text-align:center;margin-top:30px;margin-left:0}.about .about-slider .list-2{-webkit-box-orient:vertical;-webkit-box-direction:normal;-ms-flex-direction:column;flex-direction:column}.about .about-slider .list-2 .txt-area{text-align:center;margin-top:30px}.about .about-slider .list-2 .txt-area .desc{text-align:left;margin:30px 20px 0}.about .about-slider .list-2 .txt-area .desc li{-webkit-box-flex:1;-ms-flex:1 1 auto;flex:1 1 auto}.about .about-slider .list-2 .img-area{margin-right:0}.about .about-slider .list-3{-webkit-box-orient:vertical;-webkit-box-direction:reverse;-ms-flex-direction:column-reverse;flex-direction:column-reverse}.about .about-slider .list-3 .txt-area{text-align:center;margin-top:30px}.about .about-slider .list-3 .txt-area .desc{margin-right:30px;margin-left:50px}.about .about-slider .list-3 .txt-area .desc li{width:calc(50% - 20px);margin-bottom:20px;text-align:left}.what-i-do .sec-body .list-item{width:50%}.what-i-do .sec-body .list-item:first-child,.what-i-do .sec-body .list-item:nth-child(2){margin-bottom:100px}.portfolio .sec-body .list-item a{-ms-flex-wrap:wrap;flex-wrap:wrap;-webkit-box-orient:vertical;-webkit-box-direction:reverse;-ms-flex-direction:column-reverse;flex-direction:column-reverse;-webkit-box-align:start;-ms-flex-align:start;align-items:flex-start}.portfolio .sec-body .list-item a .txt-area{-ms-flex-preferred-size:100%;flex-basis:100%;margin-top:20px;margin-left:0}.portfolio .sec-body .list-item a .img-area{-webkit-box-flex:1;-ms-flex:1 1 100%;flex:1 1 100%;width:100%;padding-top:67.4%;background-size:cover}}@media screen and (max-width: 720px){.kv .kv-bg{background-image:url(../images/kv-mob.gif);background-size:cover;padding-top:175%}.kv .kv-bg .kv-obj{top:0;left:0;width:100%;background-image:url(../images/kv-mob-obj.png);padding:22% 19%}.portfolio .sec-body .list-item:active .txt-area .tit{-webkit-animation:tracking-in-contract 1s cubic-bezier(0.215, 0.61, 0.355, 1) both;animation:tracking-in-contract 1s cubic-bezier(0.215, 0.61, 0.355, 1) both}.portfolio .sec-body .list-item:active .img-area.img-web{background-image:url(../images/portfolio-web-hover.gif)}.portfolio .sec-body .list-item:active .img-area.img-character{background-image:url(../images/portfolio-character-hover.gif)}.portfolio .sec-body .list-item:active .img-area.img-graphic{background-image:url(../images/portfolio-graphic-hover.gif)}.contact .sec-body .contact-info .call,.contact .sec-body .contact-info .email{margin:0 12px}.contact .sec-body .btn button{margin:0 12px}}@media screen and (max-width: 570px){.about .about-slider .list-3 .txt-area .desc{margin-right:0;margin-left:20px}.about .about-slider .list-3 .txt-area .desc li{width:calc(50% - 20px)}.about .about-slider .list-2 .txt-area .desc{text-align:center;margin-top:0px}.about .about-slider .list-2 .txt-area .desc li{margin-top:20px}.what-i-do .sec-body{padding-bottom:50px}.what-i-do .sec-body .list-item{width:100%;margin-bottom:100px}.contact .sec-body{padding-top:120px}.contact .sec-body .name{margin-top:100px}.contact .sec-body .contact-info{-webkit-box-orient:vertical;-webkit-box-direction:normal;-ms-flex-direction:column;flex-direction:column;margin-top:25px}.contact .sec-body .contact-info .call,.contact .sec-body .contact-info .email{margin:12px 0}.contact .sec-body .btn{display:inline-block;margin:auto}.contact .sec-body .btn button{display:block;margin:24px 0}}.ft{background-color:#1b1b1b;font-size:14px;color:#fff;line-height:80px}@media screen and (max-width: 720px){.ft{line-height:40px;padding:12px 0}}.quick [class^='quick-']{background-repeat:no-repeat;background-position:center;background-size:cover;position:fixed;width:55px;height:52px}.quick [class^='quick-'] .img-box{display:none;position:relative}.quick [class^='quick-'] .img-box img{position:absolute;top:-35px;left:50%;-webkit-transform:translateX(-50%);transform:translateX(-50%)}.quick [class^='quick-']:hover .img-box{display:block}.quick .quick-green{background-image:url(../images/quick-green.png);bottom:300px;-webkit-animation:quick-1 0.8s cubic-bezier(0, -0.04, 0.41, 0.95) both;animation:quick-1 0.8s cubic-bezier(0, -0.04, 0.41, 0.95) both}.quick .quick-green .img-box img{width:59px}.quick .quick-green:hover{background-image:url(../images/quick-green-hover.png)}.quick .quick-yellow{background-image:url(../images/quick-yellow.png);bottom:200px;-webkit-animation:quick-1 0.8s cubic-bezier(0, -0.04, 0.41, 0.95) 0.2s both;animation:quick-1 0.8s cubic-bezier(0, -0.04, 0.41, 0.95) 0.2s both}.quick .quick-yellow .img-box img{width:121px}.quick .quick-yellow:hover{background-image:url(../images/quick-yellow-hover.png)}.quick .quick-pink{background-image:url(../images/quick-pink.png);bottom:100px;-webkit-animation:quick-1 0.8s cubic-bezier(0, -0.04, 0.41, 0.95) 0.4s both;animation:quick-1 0.8s cubic-bezier(0, -0.04, 0.41, 0.95) 0.4s both}.quick .quick-pink .img-box img{width:100px}.quick .quick-pink:hover{background-image:url(../images/quick-pink-hover.png)}@media screen and (max-width: 720px){.quick [class^='quick-']{bottom:50px;left:50%;-webkit-transform:translateX(-50%);transform:translateX(-50%)}.quick .quick-green{-webkit-transform:translateX(-250%);transform:translateX(-250%);-webkit-animation:quick-mob-1 0.6s cubic-bezier(0, -0.04, 0.41, 0.95) both;animation:quick-mob-1 0.6s cubic-bezier(0, -0.04, 0.41, 0.95) both;left:47%}.quick .quick-yellow{-webkit-animation:quick-mob-1 0.6s cubic-bezier(0, -0.04, 0.41, 0.95) 0.2s both;animation:quick-mob-1 0.6s cubic-bezier(0, -0.04, 0.41, 0.95) 0.2s both}.quick .quick-pink{-webkit-transform:translateX(150%);transform:translateX(150%);-webkit-animation:quick-mob-1 0.6s cubic-bezier(0, -0.04, 0.41, 0.95) 0.4s both;animation:quick-mob-1 0.6s cubic-bezier(0, -0.04, 0.41, 0.95) 0.4s both;left:53%}.quick.hide .quick-green{-webkit-animation:quick-mob-2 0.6s ease-in-out 0.4s both;animation:quick-mob-2 0.6s ease-in-out 0.4s both}.quick.hide .quick-yellow{-webkit-animation:quick-mob-2 0.6s ease-in-out 0.2s both;animation:quick-mob-2 0.6s ease-in-out 0.2s both}.quick.hide .quick-pink{-webkit-animation:quick-mob-2 0.6s ease-in-out both;animation:quick-mob-2 0.6s ease-in-out both}}
 /*# sourceMappingURL=main.min.css.map */

diff --git a/assets/css/main.css b/assets/css/main.css
@@ -327,8 +327,8 @@
   .portfolio .sec-body .list-item a .txt-area { -ms-flex-preferred-size: 100%; flex-basis: 100%; margin-top: 20px; margin-left: 0; }
   .portfolio .sec-body .list-item a .img-area { -webkit-box-flex: 1; -ms-flex: 1 1 100%; flex: 1 1 100%; width: 100%; padding-top: 67.4%; background-size: cover; } }
 
-@media screen and (max-width: 720px) { .kv .kv-bg { background-image: url(../images/kv-mob.gif); background-size: cover; padding-top: 202.7%; }
-  .kv .kv-bg .kv-obj { top: 0; left: 0; width: 100%; background-image: url(../images/kv-mob-obj.png); padding: 27% 13%; }
+@media screen and (max-width: 720px) { .kv .kv-bg { background-image: url(../images/kv-mob.gif); background-size: cover; padding-top: 175%; }
+  .kv .kv-bg .kv-obj { top: 0; left: 0; width: 100%; background-image: url(../images/kv-mob-obj.png); padding: 22% 19%; }
   .portfolio .sec-body .list-item:active .txt-area .tit { -webkit-animation: tracking-in-contract 1s cubic-bezier(0.215, 0.61, 0.355, 1) both; animation: tracking-in-contract 1s cubic-bezier(0.215, 0.61, 0.355, 1) both; }
   .portfolio .sec-body .list-item:active .img-area.img-web { background-image: url(../images/portfolio-web-hover.gif); }
   .portfolio .sec-body .list-item:active .img-area.img-character { background-image: url(../images/portfolio-character-hover.gif); }

diff --git a/assets/scss/_main.scss b/assets/scss/_main.scss
@@ -608,14 +608,14 @@
     .kv-bg {
       background-image: url(../images/kv-mob.gif);
       background-size: cover;
-      padding-top: 202.7%;
+      padding-top: 175%;
 
       .kv-obj {
         top: 0;
         left: 0;
         width: 100%;
         background-image: url(../images/kv-mob-obj.png);
-        padding: 27% 13%;
+        padding: 22% 19%;
       }
     }
   }
